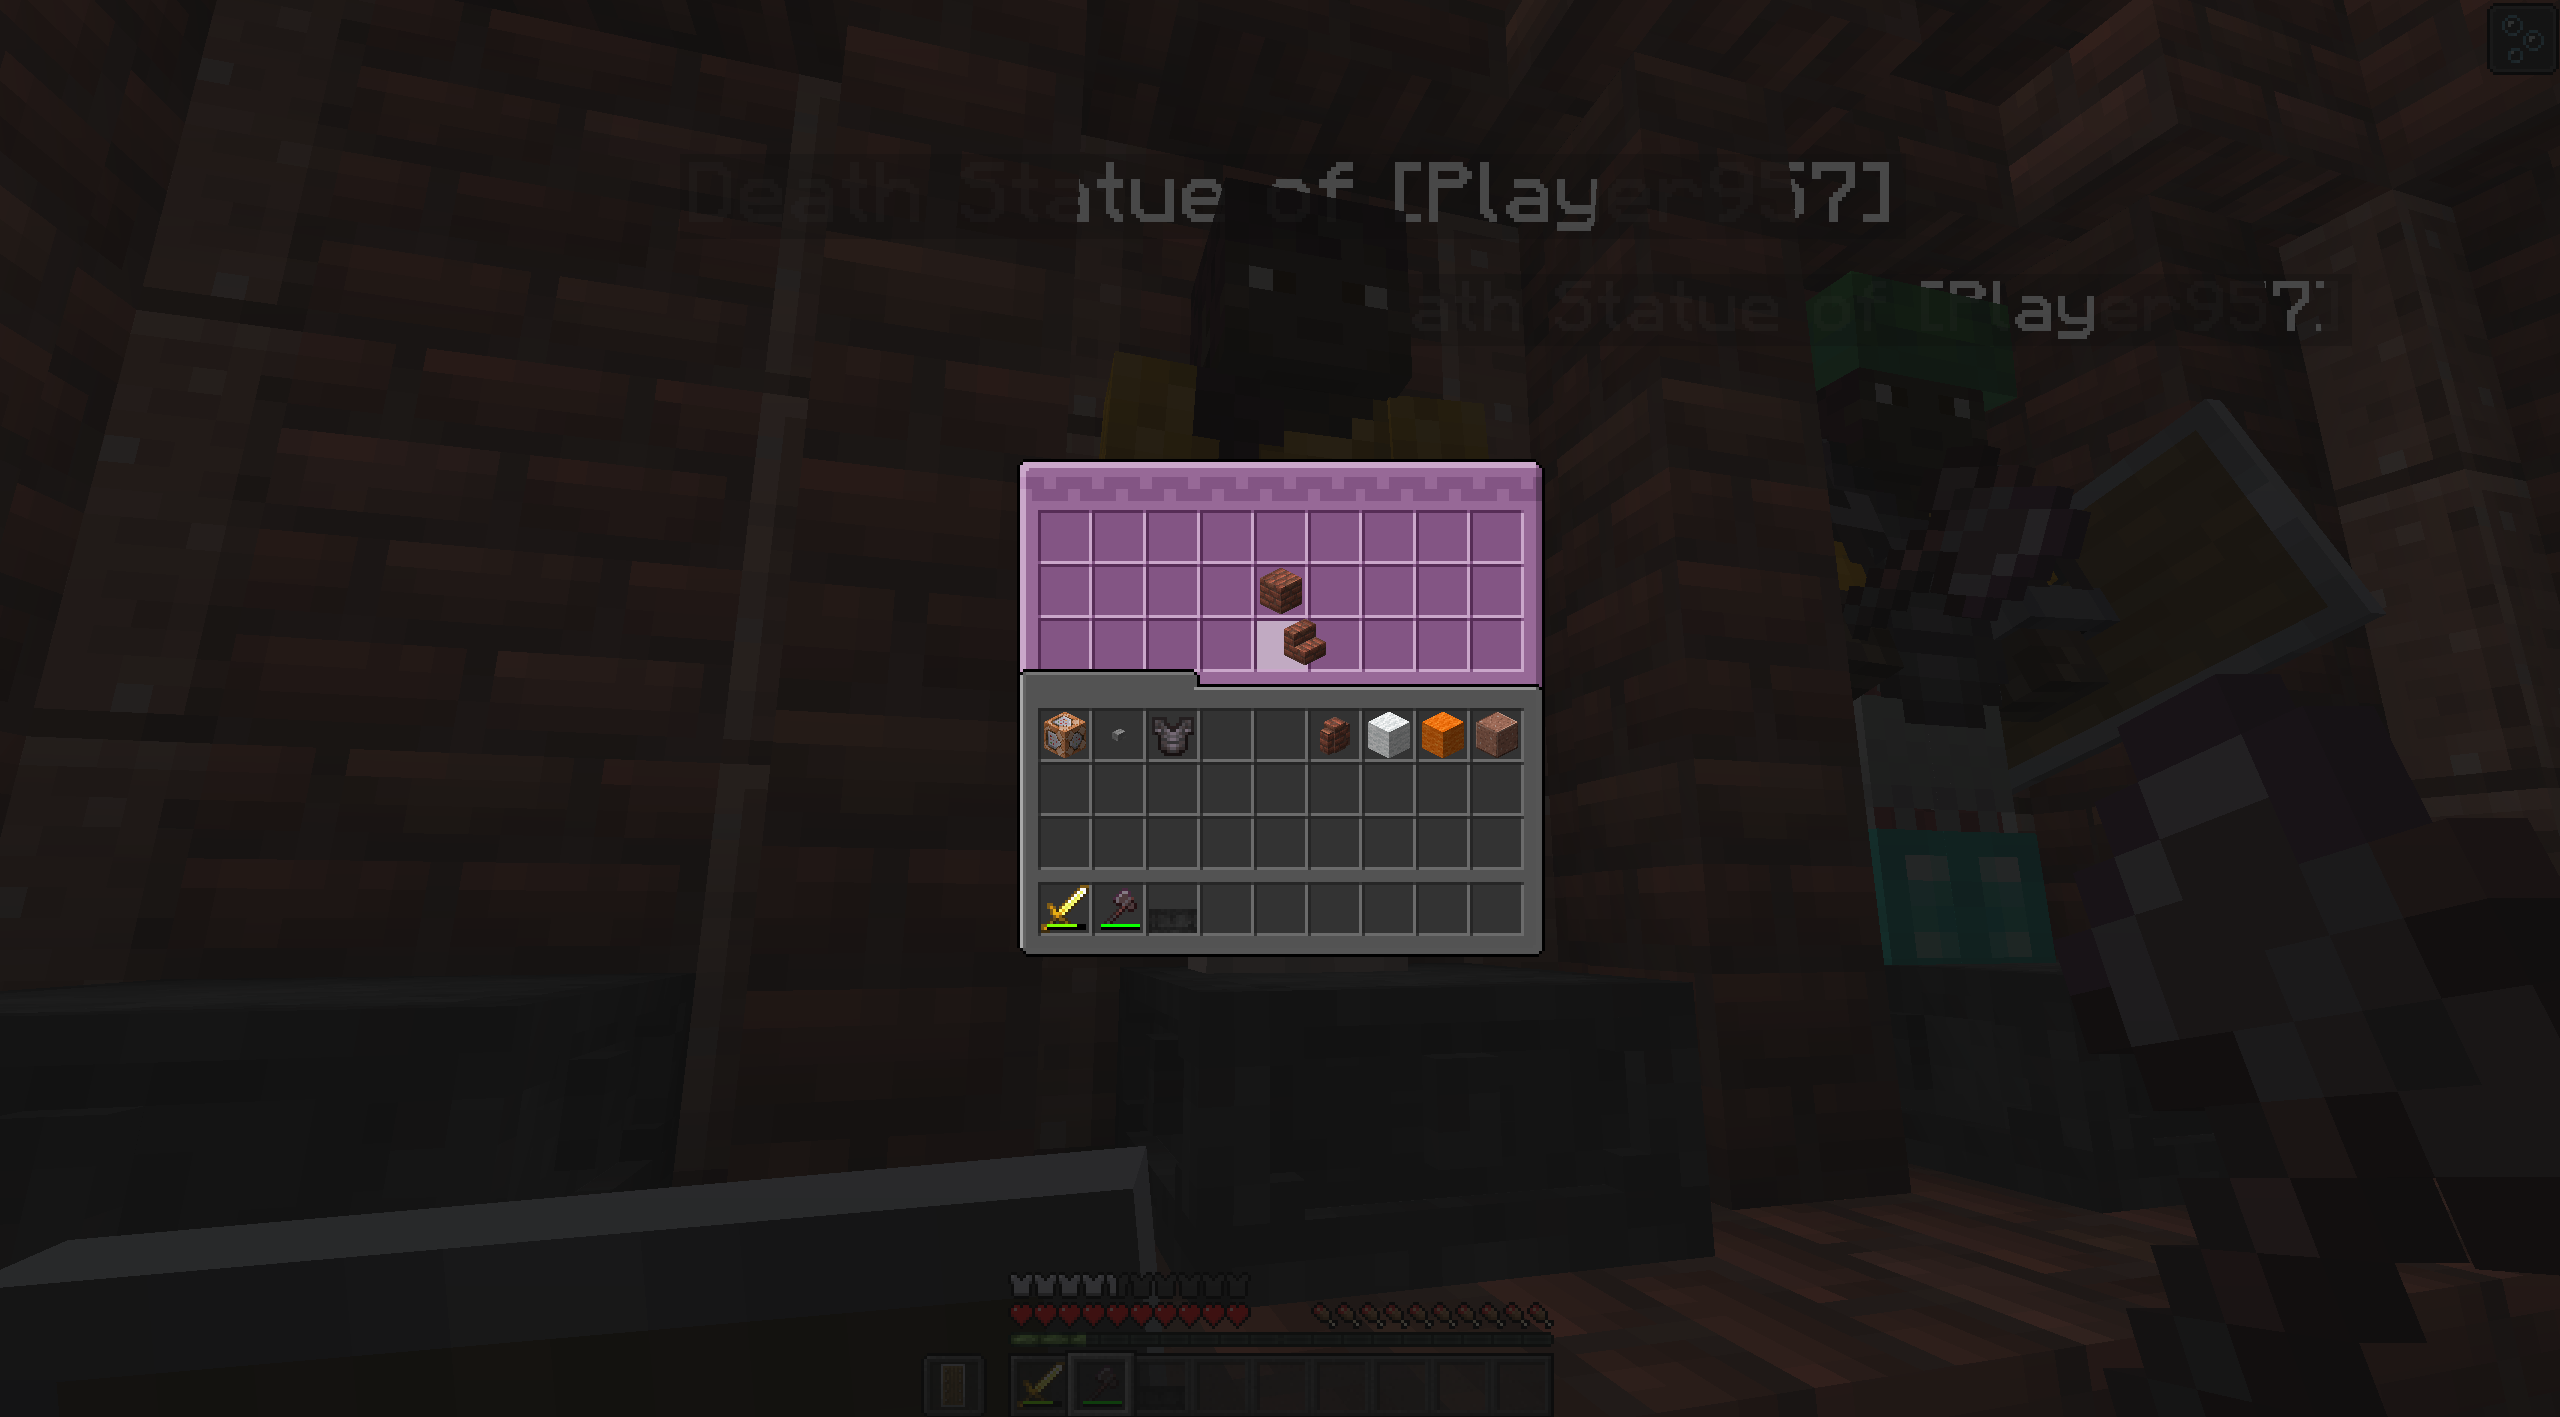
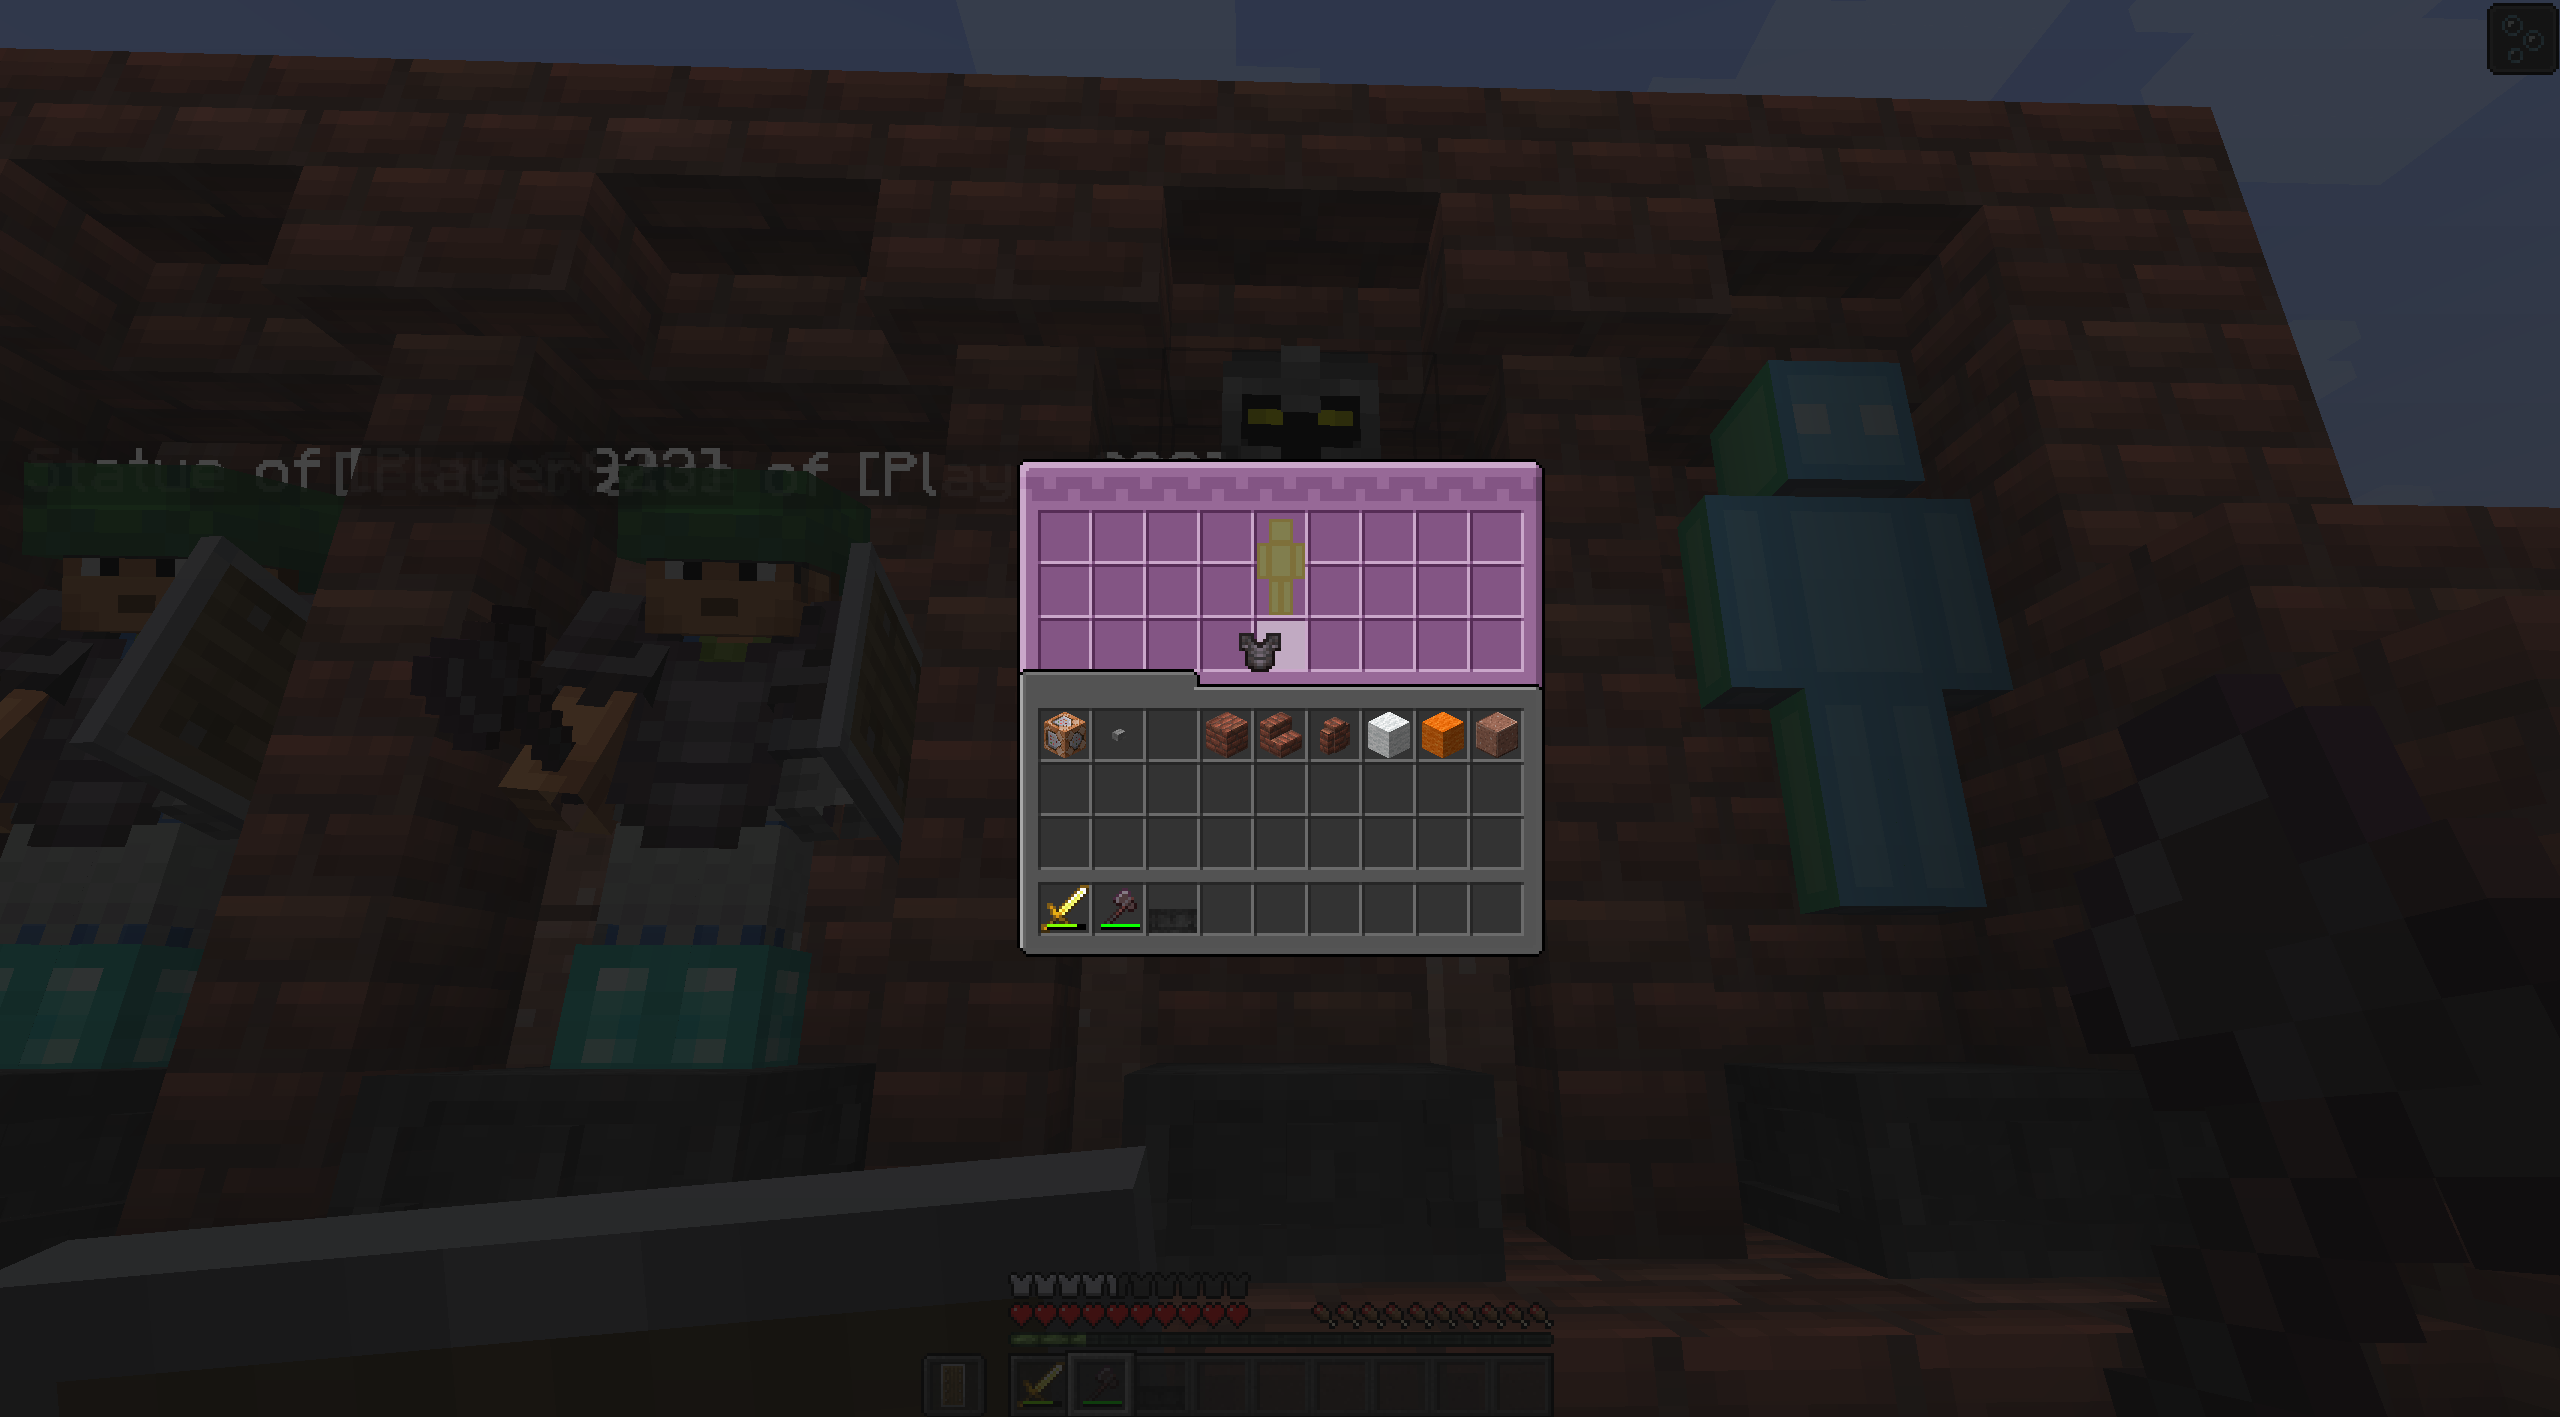
Updated README.md Images

diff --git a/README.md b/README.md
@@ -42,14 +42,22 @@ Both of these messages have the coordinates to where it spawned.
 
 ![Statue Spawned Toast](images/statue_spawned.png)
 
+>-> The chat also has a clickEvent that will suggest a teleport command in chat for you! <-
+
+![Statue Spawned Chat](images/statue_spawned_chat_click_event.png)
+
 ### Now Works on Servers!
 You can share in the morbid fun of having death statues (blocks & entities) on servers
 
 ![Statue Works on Servers](images/works_on_servers.png)
 
->-> The chat also has a clickEvent that will suggest a teleport command in chat for you! <-
+### You Can Open the Base Block's Storage by Right-Clicking on the Death Statue Entity or the Block
 
-![Statue Spawned Chat](images/statue_spawned_chat_click_event.png)
+![Statue Entity Opens Storage](images/storage_works_on_entity.png)
+
+![Statue Block Opens Storage](images/storage_works_on_block.png)
+
+When you right-click to open the container from the Death Statue Block, it updates/changes the Statue Block's texture
 
 ### Death Statue Destruction Toast Message
 When you destroy your statue, you'll get toast and chat messages.
